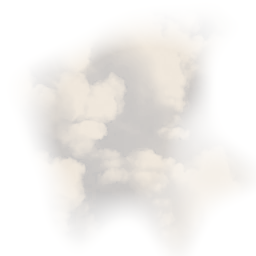
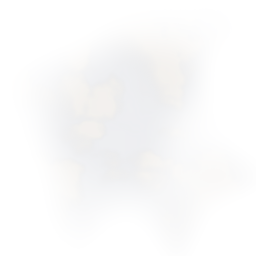
Demo 4: white clouds shaded by where a puff sits, not beige grain
Iryna's zoom: the clouds were beige like dust, and every puff showed as its own
grain. Three changes. The puff is near-white now, with the photograph's fine
grain softened, and bigger, so puffs overlap into one mass instead of reading
one by one. The shade moved out of the texture and onto the instances: each
puff is tinted by where it sits in its cloud, lit on the crown and the sunward
flank, blue-grey underneath, and the overlap blends those tints into a graded
volume. That is what gives the mass a top and a bottom.

Changed region(s): [[0.1562, 0.1562, 0.8125, 0.8438]]

diff --git a/field.js b/field.js
@@ -21,7 +21,7 @@
     clouds: +script.dataset.clouds || 46,        // clouds in one box length
     length: 8000,           // the box the field fills, in world units; the loop is this long
     width: 760,             // sideways spread; clouds are placed by a gaussian, so most come near the line of flight
-    puff: 96,
+    puff: 118,              // big and soft: the puffs must overlap into one mass, not read one by one
     speed: +script.dataset.speed || 0.085,      // world units per millisecond. mrdoob flies at 0.03, which
                                                 // is a crawl on a wide lens: at this speed a cloud on the far
                                                 // edge reaches you in about 25 s, the tempo demo 3 had
@@ -46,19 +46,24 @@
   function rng(seed) { return function () { seed = (seed * 1664525 + 1013904223) >>> 0; return seed / 4294967296; }; }
 
   var vs = [
-    'varying vec2 vUv;',
+    'varying vec2 vUv; varying vec3 vTint;',
     'void main() {',
     '  vUv = uv;',
+    '  #ifdef USE_INSTANCING_COLOR',
+    '  vTint = instanceColor;',
+    '  #else',
+    '  vTint = vec3(1.0);',
+    '  #endif',
     '  gl_Position = projectionMatrix * modelViewMatrix * instanceMatrix * vec4(position, 1.0);',
     '}'].join('\n');
   var fs = [
     'uniform sampler2D map; uniform vec3 fogColor; uniform float fogNear; uniform float fogFar;',
     'uniform float splitNear; uniform float splitFar; uniform float tint;',
-    'varying vec2 vUv;',
+    'varying vec2 vUv; varying vec3 vTint;',
     'void main() {',
     '  float depth = gl_FragCoord.z / gl_FragCoord.w;',
     '  vec4 c = texture2D(map, vUv);',
-    '  c.rgb = mix(c.rgb, c.rgb * vec3(1.0, 0.985, 0.96), tint);',
+    '  c.rgb *= vTint;',                                     // per-puff shade: where it sits in its cloud
     '  c.a *= pow(gl_FragCoord.z, 20.0);',                 // the puff at the lens goes to vapour
     '  c.a *= smoothstep(70.0, 360.0, depth);',           // and a cloud you are inside dissolves instead of filling the frame
     '  c.a *= smoothstep(splitNear, splitFar, depth);',    // which canvas this puff belongs to
@@ -108,12 +113,16 @@
         y: gauss() * 215 - 20,                                // at eye level: that is where the text is
         z: r() * cfg.length,
         R: R,
-        n: Math.round(cfg.count * (R * R) / (cfg.clouds * 260 * 260))
+        n: Math.round(cfg.count * (R * R) / (cfg.clouds * 300 * 300))
       });
     }
     var total = 0;
     clouds.forEach(function (cl) { total += cl.n; });
     var mesh = new THREE.InstancedMesh(geo, mat, total * 2);
+    // Shading is per puff, not per pixel: a cumulus is lit on top and on the sunward
+    // flank and sits in blue-grey shade underneath. Each puff is tinted by where it is
+    // in its cloud, and the overlap blends those tints into a graded volume.
+    var lit = new THREE.Color(0xfbf8f3), shade = new THREE.Color(0x9aa3b4), tintC = new THREE.Color();
     var i = 0;
     clouds.forEach(function (cl) {
       for (var k = 0; k < cl.n; k++) {
@@ -123,10 +132,14 @@
         var py = cl.y + (gy < 0 ? gy * 0.28 : gy * 0.55) * cl.R;
         var pz = cl.z + gz * cl.R * 0.45;
         var d = Math.sqrt(gx * gx + gy * gy + gz * gz);
-        var sc = (0.55 + r() * 0.9) * (cl.R / 200) * (d < 0.8 ? 1.25 : 1.0);
+        var sc = (0.7 + r() * 0.8) * (cl.R / 200) * (d < 0.8 ? 1.2 : 1.0);
         q.setFromAxisAngle(z, r() * Math.PI); s.set(sc, sc, 1);
         p.set(px, py, pz); m.compose(p, q, s); mesh.setMatrixAt(i, m);
         p.set(px, py, pz - cfg.length); m.compose(p, q, s); mesh.setMatrixAt(total + i, m);
+        // 0 = deep in the belly, 1 = crown in the sun; the sun is up and a little to the right
+        var t = 0.5 + gy * 0.42 + gx * 0.14 - Math.max(0, 0.9 - d) * 0.35;
+        tintC.copy(shade).lerp(lit, Math.min(1, Math.max(0, t)));
+        mesh.setColorAt(i, tintC); mesh.setColorAt(total + i, tintC);
         i++;
       }
     });

diff --git a/field.html b/field.html
@@ -15,7 +15,7 @@
     if (new URLSearchParams(location.search).has('full')) return;
     var w = Math.min(window.innerWidth || Infinity,
                      (window.screen && window.screen.width) || Infinity);
-    if (w <= 768) location.replace('field-m.html?v=20260920n' + location.hash);
+    if (w <= 768) location.replace('field-m.html?v=20260920p' + location.hash);
   } catch (e) {}
 })();
 </script>
@@ -23,23 +23,23 @@
 <meta name="description" content="X-ON-X. Boutique law firm. Partners to Ukrainian founders building international businesses. Fashion, Investments, Miltech. Legal500, ITR, Forbes Next-250">
 <link rel="canonical" href="https://www.x-on-x.com/">
 <link rel="alternate" media="only screen and (max-width: 768px)" href="https://www.x-on-x.com/m.html">
-<link rel="icon" href="/favicon.ico?v=20260920n" sizes="32x32">
-<link rel="icon" href="/favicon.svg?v=20260920n" type="image/svg+xml">
-<link rel="apple-touch-icon" href="/img/apple-touch-icon.png?v=20260920n">
+<link rel="icon" href="/favicon.ico?v=20260920p" sizes="32x32">
+<link rel="icon" href="/favicon.svg?v=20260920p" type="image/svg+xml">
+<link rel="apple-touch-icon" href="/img/apple-touch-icon.png?v=20260920p">
 <meta name="theme-color" content="#FAFAF5">
 <meta property="og:type" content="website">
 <meta property="og:site_name" content="X-ON-X">
 <meta property="og:url" content="https://www.x-on-x.com/">
 <meta property="og:title" content="X-ON-X | New market launch">
 <meta property="og:description" content="X-ON-X. Boutique law firm. Partners to Ukrainian founders building international businesses. Fashion, Investments, Miltech. Legal500, ITR, Forbes Next-250">
-<meta property="og:image" content="https://www.x-on-x.com/img/og.jpg?v=20260920n">
+<meta property="og:image" content="https://www.x-on-x.com/img/og.jpg?v=20260920p">
 <meta property="og:image:width" content="1200">
 <meta property="og:image:height" content="630">
 <meta property="og:image:type" content="image/jpeg">
 <meta name="twitter:card" content="summary_large_image">
 <meta name="twitter:title" content="X-ON-X | New market launch">
 <meta name="twitter:description" content="X-ON-X. Boutique law firm. Partners to Ukrainian founders building international businesses. Fashion, Investments, Miltech. Legal500, ITR, Forbes Next-250">
-<meta name="twitter:image" content="https://www.x-on-x.com/img/og.jpg?v=20260920n">
+<meta name="twitter:image" content="https://www.x-on-x.com/img/og.jpg?v=20260920p">
 <link rel="preconnect" href="https://fonts.googleapis.com">
 <link rel="preconnect" href="https://fonts.gstatic.com" crossorigin>
 <link href="https://fonts.googleapis.com/css2?family=Cormorant+Garamond:ital,wght@0,300;0,400;0,500;0,600;0,700;1,300;1,400;1,500;1,600;1,700&family=Inter:ital,opsz,wght@0,14..32,100..900;1,14..32,100..900&family=JetBrains+Mono:ital,wght@0,100..800;1,100..800&display=swap" rel="stylesheet">
@@ -1244,7 +1244,7 @@ body { background: var(--cream) !important; }
  ]
 }
 </script>
-<link rel="stylesheet" href="field.css?v=20260920n">
+<link rel="stylesheet" href="field.css?v=20260920p">
 </head>
 <body>
 
@@ -1390,6 +1390,6 @@ body { background: var(--cream) !important; }
 </script>
 
 <script src="js/three.min.js"></script>
-<script src="field.js?v=20260920n" data-count="5000" data-clouds="34" data-texture="clouds/puff_photo.png?v=20260920n" data-sky="#ECE8E6"></script>
+<script src="field.js?v=20260920p" data-count="5000" data-clouds="34" data-texture="clouds/puff_photo.png?v=20260920p" data-sky="#ECE8E6"></script>
 </body>
 </html>

diff --git a/field-m.html b/field-m.html
@@ -15,7 +15,7 @@
     if (new URLSearchParams(location.search).has('m')) return;
     var w = Math.min(window.innerWidth || Infinity,
                      (window.screen && window.screen.width) || Infinity);
-    if (w >  768) location.replace('field.html?v=20260920n' + location.hash);
+    if (w >  768) location.replace('field.html?v=20260920p' + location.hash);
   } catch (e) {}
 })();
 </script>
@@ -42,23 +42,23 @@
 <title>X-ON-X | New market launch</title>
 <meta name="description" content="X-ON-X. Boutique law firm. Partners to Ukrainian founders building international businesses. Fashion, Investments, Miltech. Legal500, ITR, Forbes Next-250">
 <link rel="canonical" href="https://www.x-on-x.com/">
-<link rel="icon" href="/favicon.ico?v=20260920n" sizes="32x32">
-<link rel="icon" href="/favicon.svg?v=20260920n" type="image/svg+xml">
-<link rel="apple-touch-icon" href="/img/apple-touch-icon.png?v=20260920n">
+<link rel="icon" href="/favicon.ico?v=20260920p" sizes="32x32">
+<link rel="icon" href="/favicon.svg?v=20260920p" type="image/svg+xml">
+<link rel="apple-touch-icon" href="/img/apple-touch-icon.png?v=20260920p">
 <meta name="theme-color" content="#FAFAF5">
 <meta property="og:type" content="website">
 <meta property="og:site_name" content="X-ON-X">
 <meta property="og:url" content="https://www.x-on-x.com/">
 <meta property="og:title" content="X-ON-X | New market launch">
 <meta property="og:description" content="X-ON-X. Boutique law firm. Partners to Ukrainian founders building international businesses. Fashion, Investments, Miltech. Legal500, ITR, Forbes Next-250">
-<meta property="og:image" content="https://www.x-on-x.com/img/og.jpg?v=20260920n">
+<meta property="og:image" content="https://www.x-on-x.com/img/og.jpg?v=20260920p">
 <meta property="og:image:width" content="1200">
 <meta property="og:image:height" content="630">
 <meta property="og:image:type" content="image/jpeg">
 <meta name="twitter:card" content="summary_large_image">
 <meta name="twitter:title" content="X-ON-X | New market launch">
 <meta name="twitter:description" content="X-ON-X. Boutique law firm. Partners to Ukrainian founders building international businesses. Fashion, Investments, Miltech. Legal500, ITR, Forbes Next-250">
-<meta name="twitter:image" content="https://www.x-on-x.com/img/og.jpg?v=20260920n">
+<meta name="twitter:image" content="https://www.x-on-x.com/img/og.jpg?v=20260920p">
 <link rel="preconnect" href="https://fonts.googleapis.com">
 <link rel="preconnect" href="https://fonts.gstatic.com" crossorigin>
 <link href="https://fonts.googleapis.com/css2?family=Cormorant+Garamond:ital,wght@0,300;0,400;0,500;0,600;0,700;1,300;1,400;1,500;1,600;1,700&family=Inter:ital,opsz,wght@0,14..32,100..900;1,14..32,100..900&family=JetBrains+Mono:ital,wght@0,100..800;1,100..800&display=swap" rel="stylesheet">
@@ -1834,7 +1834,7 @@ body { background: var(--cream) !important; }
  ]
 }
 </script>
-<link rel="stylesheet" href="field.css?v=20260920n">
+<link rel="stylesheet" href="field.css?v=20260920p">
 </head>
 <body>
 
@@ -1992,6 +1992,6 @@ body { background: var(--cream) !important; }
 </script>
 
 <script src="js/three.min.js"></script>
-<script src="field.js?v=20260920n" data-count="2200" data-clouds="22" data-texture="clouds/puff_photo.png?v=20260920n" data-sky="#ECE8E6"></script>
+<script src="field.js?v=20260920p" data-count="2200" data-clouds="22" data-texture="clouds/puff_photo.png?v=20260920p" data-sky="#ECE8E6"></script>
 </body>
 </html>

diff --git a/build_field.py b/build_field.py
@@ -11,7 +11,7 @@ import pathlib, re
 
 SRC = pathlib.Path('/Users/user/Claude/xonx-site-preview')
 DST = pathlib.Path(__file__).parent
-V = '20260920n'
+V = '20260920p'
 
 PANEL = '''
 <div class="xx-proto" role="group" aria-label="sky controls">
